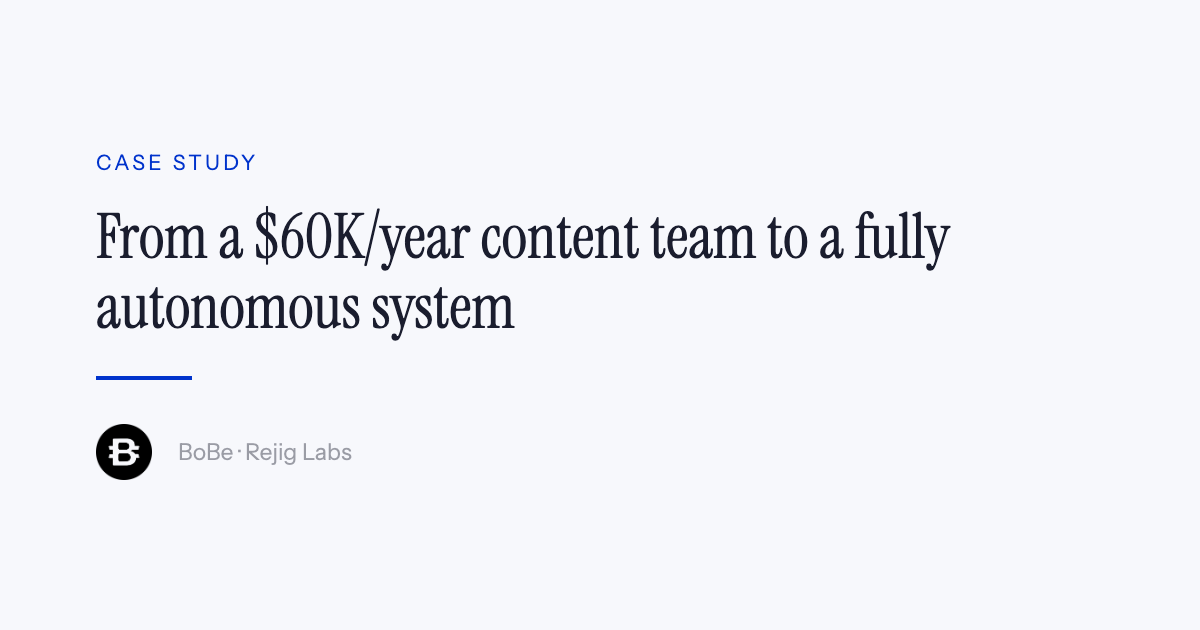
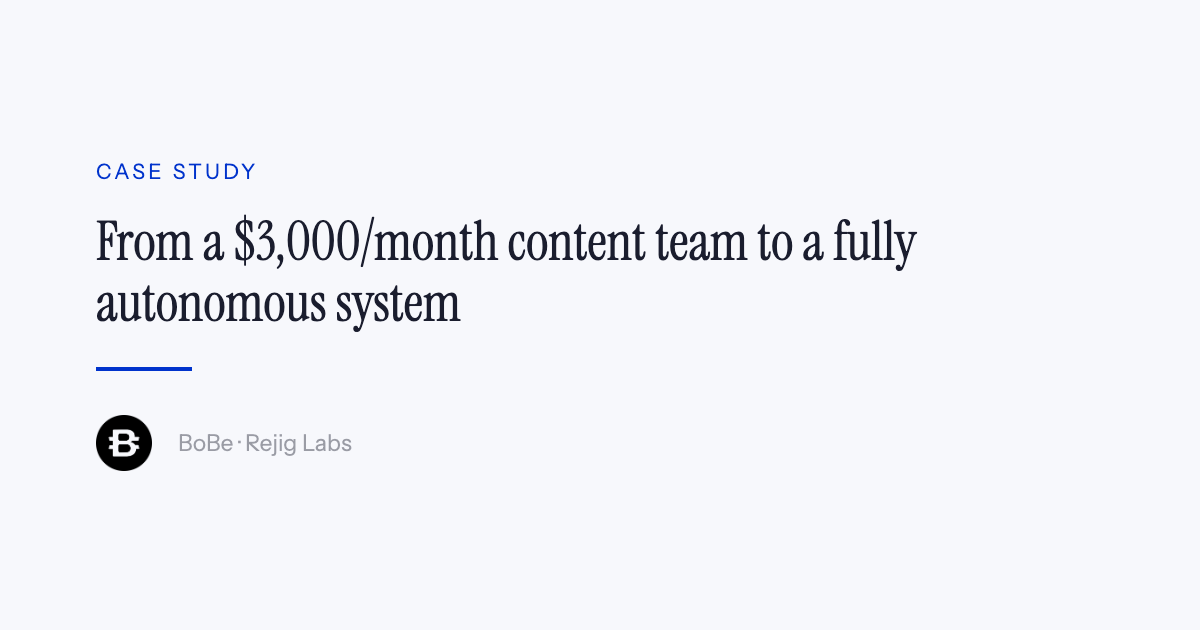
BoBe case study: correct the cost figure to the sourced $2,000–$3,000/mo
The live page claimed "$60K/year saved" and "the manual content operation
cost around $5,000/month". Nothing supports either. Every internal source
says the external content team cost $2,000–$3,000/month:

  clients/bobe/delivered/case-study/case-study-bobe-content-system.md:22
  clients/bobe/delivered/case-study/resources/raw-notes.md
  clients/bobe/delivered/case-study/bobe-one-pager.md (headlines $3,000/mo)

The Thai copy already carried the correct figure; EN and RU had been
inflated. Corrected in all three, plus the stat tile ($60K -> ~$36K, which
is $3,000 x 12), and regenerated the baked head tags and the OG card.

Wayfinder #477. Full rewrite (daily-agent section, honest publish gate)
follows via preview.

diff --git a/case-studies/bobe/index.html b/case-studies/bobe/index.html
@@ -5,8 +5,8 @@
   <!-- Served at /case-studies/<slug> via rewrite; base keeps relative assets resolving from root -->
   <base href="/">
   <meta name="viewport" content="width=device-width, initial-scale=1.0">
-  <title>From a $60K/year content team to a fully autonomous system | Rejig Labs</title>
-  <meta name="description" content="BoBe's content team cost $60K/year and took 1–2 days per batch. We built an autonomous system that generates 14 pieces of content in seconds for under $30/month.">
+  <title>From a $3,000/month content team to a fully autonomous system | Rejig Labs</title>
+  <meta name="description" content="BoBe's content team cost around $3,000/month and took 1–2 days per batch. We built an autonomous system that generates 14 pieces of content in seconds for under $30/month.">
 
   <!-- Consent Mode v2 defaults: analytics OFF until the visitor accepts -->
   <script>
@@ -47,15 +47,15 @@
     })(window, document, "clarity", "script", "w91b1gltmo");
   </script>
 
-  <meta property="og:title" content="From a $60K/year content team to a fully autonomous system | Rejig Labs">
-  <meta property="og:description" content="BoBe's content team cost $60K/year and took 1–2 days per batch. We built an autonomous system that generates 14 pieces of content in seconds for under $30/month.">
+  <meta property="og:title" content="From a $3,000/month content team to a fully autonomous system | Rejig Labs">
+  <meta property="og:description" content="BoBe's content team cost around $3,000/month and took 1–2 days per batch. We built an autonomous system that generates 14 pieces of content in seconds for under $30/month.">
   <meta property="og:type" content="website">
   <meta property="og:image" content="https://rejiglabs.com/assets/og/case-bobe.png">
   <meta property="og:image:width" content="1200">
   <meta property="og:image:height" content="630">
   <meta name="twitter:card" content="summary_large_image">
-  <meta name="twitter:title" content="From a $60K/year content team to a fully autonomous system | Rejig Labs">
-  <meta name="twitter:description" content="BoBe's content team cost $60K/year and took 1–2 days per batch. We built an autonomous system that generates 14 pieces of content in seconds for under $30/month.">
+  <meta name="twitter:title" content="From a $3,000/month content team to a fully autonomous system | Rejig Labs">
+  <meta name="twitter:description" content="BoBe's content team cost around $3,000/month and took 1–2 days per batch. We built an autonomous system that generates 14 pieces of content in seconds for under $30/month.">
   <meta name="twitter:image" content="https://rejiglabs.com/assets/og/case-bobe.png">
   <meta name="theme-color" content="#f7f8fc">
 
@@ -79,7 +79,7 @@
   <script defer src="/_vercel/speed-insights/script.js"></script>
   <link rel="canonical" href="https://rejiglabs.com/case-studies/bobe">
   <meta property="og:url" content="https://rejiglabs.com/case-studies/bobe">
-  <script type="application/ld+json" id="cs-jsonld">{"@context":"https://schema.org","@type":"Article","headline":"BoBe: From a $60K/year content team to a fully autonomous system","description":"BoBe's content team cost $60K/year and took 1–2 days per batch. We built an autonomous system that generates 14 pieces of content in seconds for under $30/month.","url":"https://rejiglabs.com/case-studies/bobe","inLanguage":"en","image":"https://rejiglabs.com/assets/og/case-bobe.png","about":{"@type":"Thing","name":"BoBe (AI Trading Platform)"},"author":{"@type":"Organization","name":"Rejig Labs","url":"https://rejiglabs.com"},"publisher":{"@type":"Organization","name":"Rejig Labs","logo":{"@type":"ImageObject","url":"https://rejiglabs.com/assets/logo.png"}},"mainEntityOfPage":{"@type":"WebPage","@id":"https://rejiglabs.com/case-studies/bobe"}}</script>
+  <script type="application/ld+json" id="cs-jsonld">{"@context":"https://schema.org","@type":"Article","headline":"BoBe: From a $3,000/month content team to a fully autonomous system","description":"BoBe's content team cost around $3,000/month and took 1–2 days per batch. We built an autonomous system that generates 14 pieces of content in seconds for under $30/month.","url":"https://rejiglabs.com/case-studies/bobe","inLanguage":"en","image":"https://rejiglabs.com/assets/og/case-bobe.png","about":{"@type":"Thing","name":"BoBe (AI Trading Platform)"},"author":{"@type":"Organization","name":"Rejig Labs","url":"https://rejiglabs.com"},"publisher":{"@type":"Organization","name":"Rejig Labs","logo":{"@type":"ImageObject","url":"https://rejiglabs.com/assets/logo.png"}},"mainEntityOfPage":{"@type":"WebPage","@id":"https://rejiglabs.com/case-studies/bobe"}}</script>
 </head>
 <body>
 
